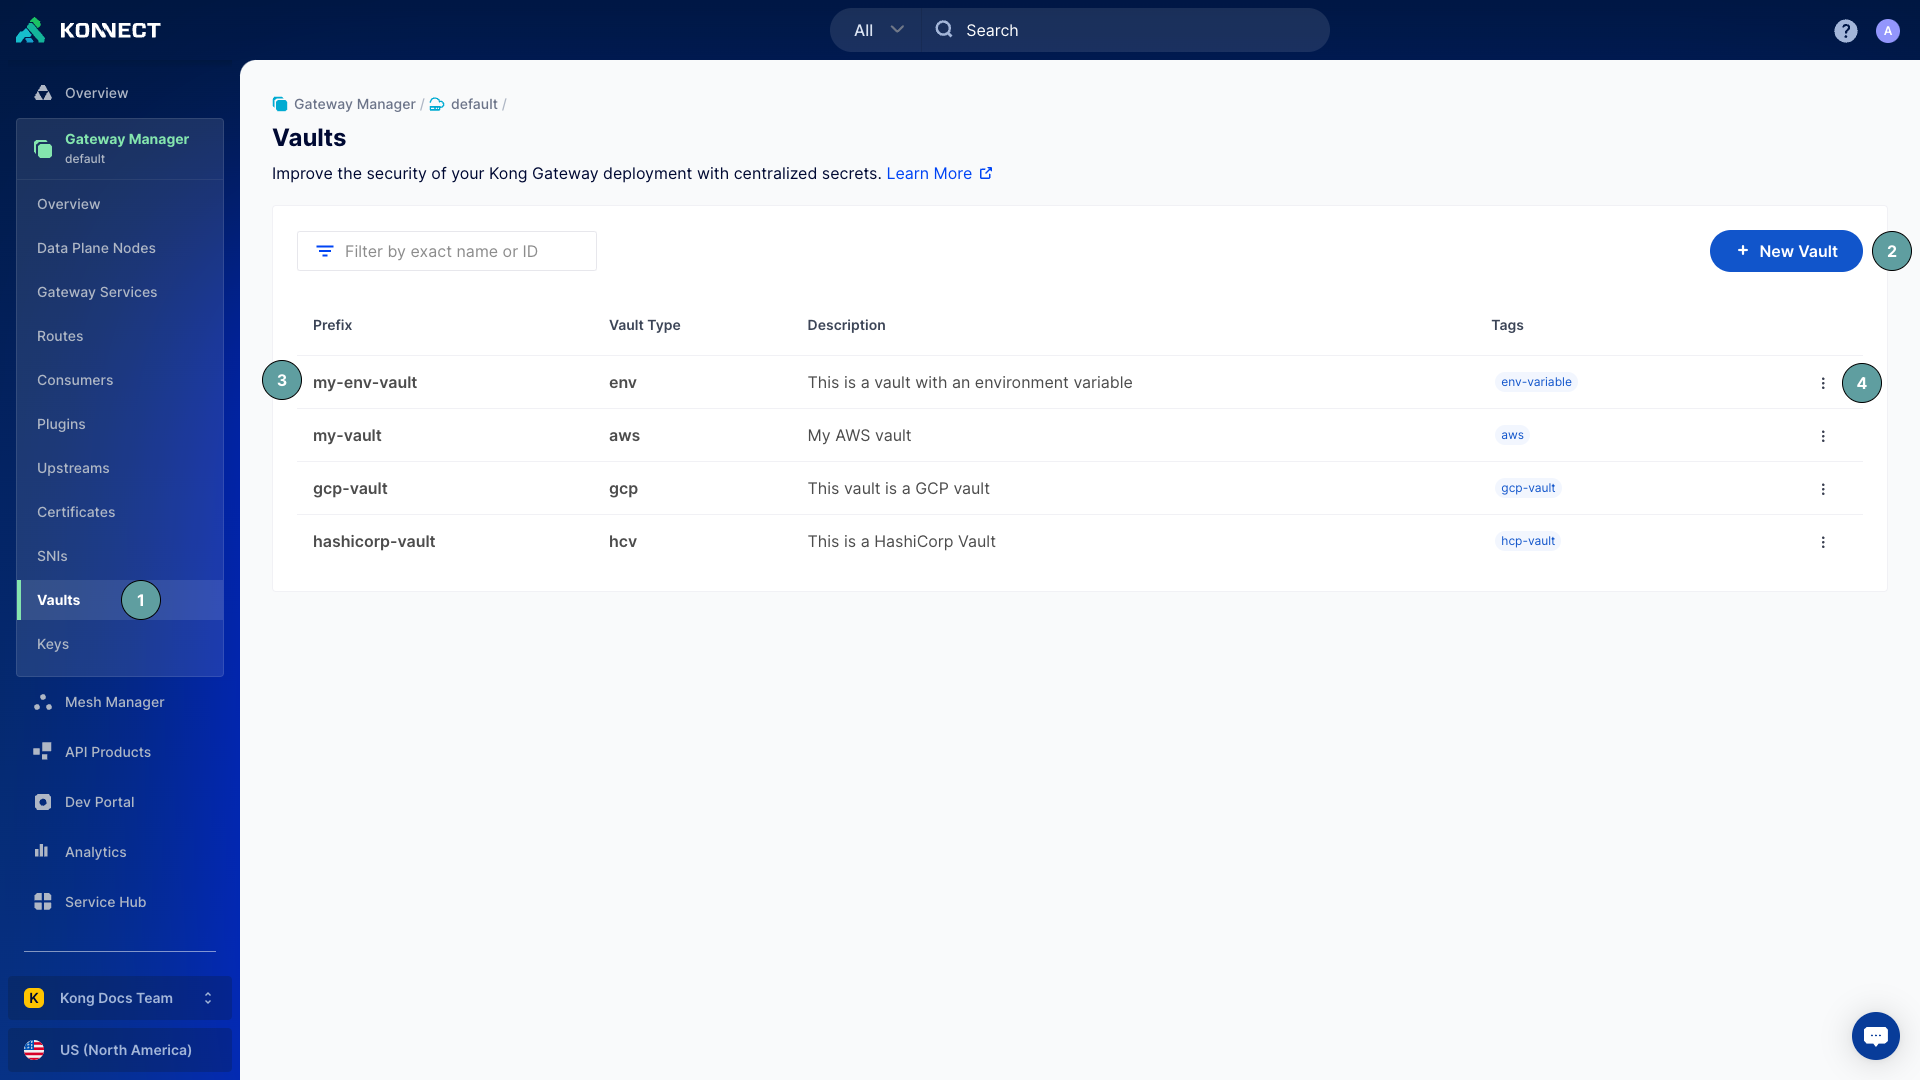
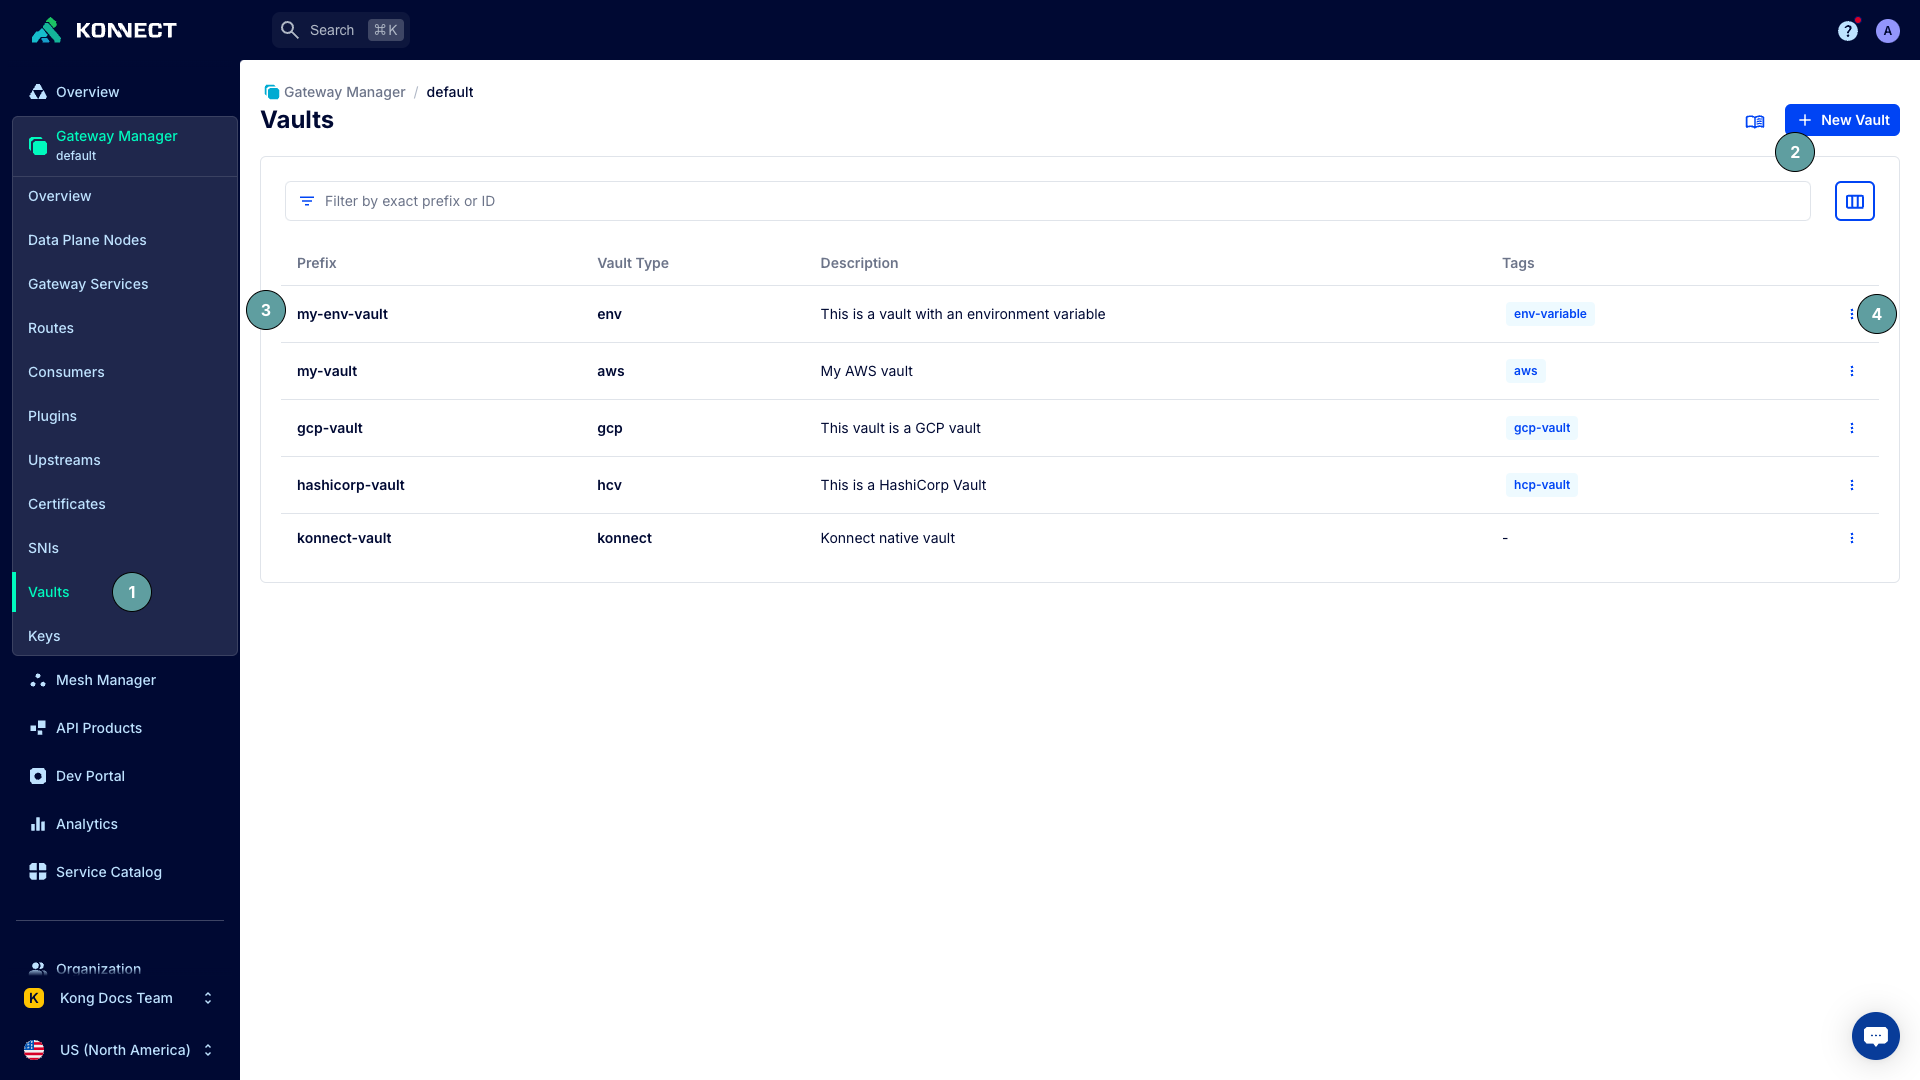
shotscraper, instructions, formatting

diff --git a/app/konnect/gateway-manager/configuration/config-store.md b/app/konnect/gateway-manager/configuration/config-store.md
@@ -2,35 +2,46 @@
 title: Konnect Config Store
 ---
 
-You can store your sensitive data directly in Konnect via the Konnect Config Store. Konnect Config Store is scoped to a control plane today and works directly with Gateway’s Vaults entity in Gateway Manager to easily manage security and governance policies. Konnect Config Store is built with security in mind such that once a secret is stored in Konnect, you cannot view the value again. This ensures that sensitive data is not visible in plain text anywhere. 
+
+You can store your sensitive data directly in {{site.konnect_short_name}} via the {{site.konnect_short_name}} Config Store. {{site.konnect_short_name}} Config Store is scoped to a control plane today and works directly with Gateway’s Vaults entity in Gateway Manager to easily manage security and governance policies. {{site.konnect_short_name}} Config Store is built with security in mind such that once a secret is stored in {{site.konnect_short_name}}, you cannot view the value again. This ensures that sensitive data is not visible in plain text anywhere. 
+
+## Configure the {{site.konnect_short_name}} config store
+
+Create a config store entity in {{site.konnect_short_name}} and save the `config_store_id` from the response body.
+```sh 
+curl -i -X POST http://{region}.api.konghq.com/v2/control-planes/{control-plane-id}/config-stores  \
+--data name="Default-Config-Store"
+```
+
+> Creating a config store can only be accomplished using the [config-store](/konnect/api/control-planes/latest/#/Control%20Planes/config-store) endpoint.
 
 
-## Prerequisites
-
- 
-### Create a config store entity
-
-To configure the vault backend with Konnect Config Store, you need to first create a config store entity in Konnect:
-
-
-    curl -i -X POST http://us.api.konghq.com/v2/control-planes/51399011-aaa3-4530-9cf1-fc0039ae78e0/config-stores  \
-    --data name="Default-Config-Store"
-
-This action is not supported by deck or UI today. Since Konnect Config Store works with the vaults entity, you can simply select Konnect in Vaults entity under Gateway Manager.
-
-
-### Connect the config store to vaults
+## Connect the config store entity to the vault
 
 {% navtabs %}
 {% navtab API %}
-```yaml
-curl -i -X POST http://us.api.konghq.com/vaults/konnect-vault  \
+
+Using the `config_store_id` create a `POST` request to associate the config store with the vault.
+    
+```sh
+curl -i -X POST https://{region}.api.konghq.com/v2/control-planes/{control-plane-id}/core-entities/vaults/konnect-vault   \
   --data name=konnect \
   --data description="Storing secrets in Konnect Config Store" \
   --data config.config_store_id="ee62068e-1843-49f8-ac22-40293b0a949d"
 ```
+
+{% endnavtab %}
+{% navtab UI %}
+1. In {% konnect_icon runtimes %} **Gateway Manager** select a control plane.
+1. Click **New vault**.
+1. Choose **Konnect**
+1. Enter the configuration settings for your vault and **Save**.
+
 {% endnavtab %}
 {% navtab decK %}
+
+Using the `config_store_id` create a `POST` request to associate the config store with the vault.
+
 ```yaml
 _format_version: "3.0"
 vaults:
@@ -43,23 +54,25 @@ vaults:
 {% endnavtab %}
 {% endnavtabs %}
 
-You can now add secrets in the Config Store to be referenced elsewhere in the control plane. For example, a Konnect Config Store secret with the name `secret-name` may have multiple key=value pairs:
+You can now store secrets in the {{site.konnect_short_name}} Config Store and reference them throughout the control plane. For instance, a secret in the {{site.konnect_short_name}} Config Store named `secret-name` can hold multiple key-value pairs:
 
-```
+```json
 {
   "foo": "bar",
   "snip": "snap"
 }
 ```
 
+To make these secrets accessible to {{site.base_gateway}}, reference the environment variables using a specific URL format. For the example above, the references would be:
 
-With the vault entity in place, you can now reference the secrets. 
-
-```
+```sh
 {vault://konnect/secret-name/foo}
 {vault://konnect/secret-name/snip}
 ```
 
+This allows {{site.base_gateway}} to recognize and retrieve the stored secrets.
+
+## Supported fields
 
 | Parameter           | Field Name        | Description                                                                                             |
 |---------------------|-------------------|---------------------------------------------------------------------------------------------------------|

diff --git a/app/konnect/gateway-manager/configuration/vaults/index.md b/app/konnect/gateway-manager/configuration/vaults/index.md
@@ -44,8 +44,7 @@ Vaults have several use cases:
 * Encryption of secrets at rest
 
 {{site.konnect_short_name}} **does not**:
-* Store credentials to access the vault itself.
-You must provide those credentials to the {{site.base_gateway}} data plane directly.
+
 * Update or modify the secrets in 3rd party vaults.
 
 Vaults are configurable per control plane. You can't use the same vault across
@@ -69,7 +68,7 @@ Check out the example use case for [storing certificates in a vault](/konnect/ga
 
 For detailed vault configuration references and guides, see the {{site.base_gateway}}
 documentation:
-* [Konnect Config Store](<<needs the link for the new Konnect ConfigStore page>>)
+* [Konnect Config Store](/gateway-manager/configuration/config-store/)
 * [AWS Secrets Manager](/gateway/latest/kong-enterprise/secrets-management/backends/aws-sm/)
 * [GCP Secret Manager](/gateway/latest/kong-enterprise/secrets-management/backends/gcp-sm/)
 * [HashiCorp Vault](/gateway/latest/kong-enterprise/secrets-management/backends/hashicorp-vault/)

diff --git a/app/konnect/gateway-manager/configuration/vaults/how-to.md b/app/konnect/gateway-manager/configuration/vaults/how-to.md
@@ -21,7 +21,7 @@ Set up a new vault. For this example, we're going to use the environment variabl
 1. Click **Add vault**.
 1. Choose a vault type. 
 1. Enter the configuration settings for your vault. For more information about how to configure settings, see the following {{site.base_gateway}} documentation:
-    * [Konnect Config Store options] (<<Need new page link here>>)
+    * [Konnect Config Store options](/gateway-manager/configuration/config-store/#supported-fields)
     * [AWS vault configuration options](/gateway/latest/kong-enterprise/secrets-management/backends/aws-sm/#vault-configuration-options)
     * [Google Cloud vault configuration options](/gateway/latest/kong-enterprise/secrets-management/backends/gcp-sm/#vault-entity-configuration-options)
     * [HashiCorp vault configuration options](/gateway/latest/kong-enterprise/secrets-management/backends/hashicorp-vault/#vault-configuration-options)
